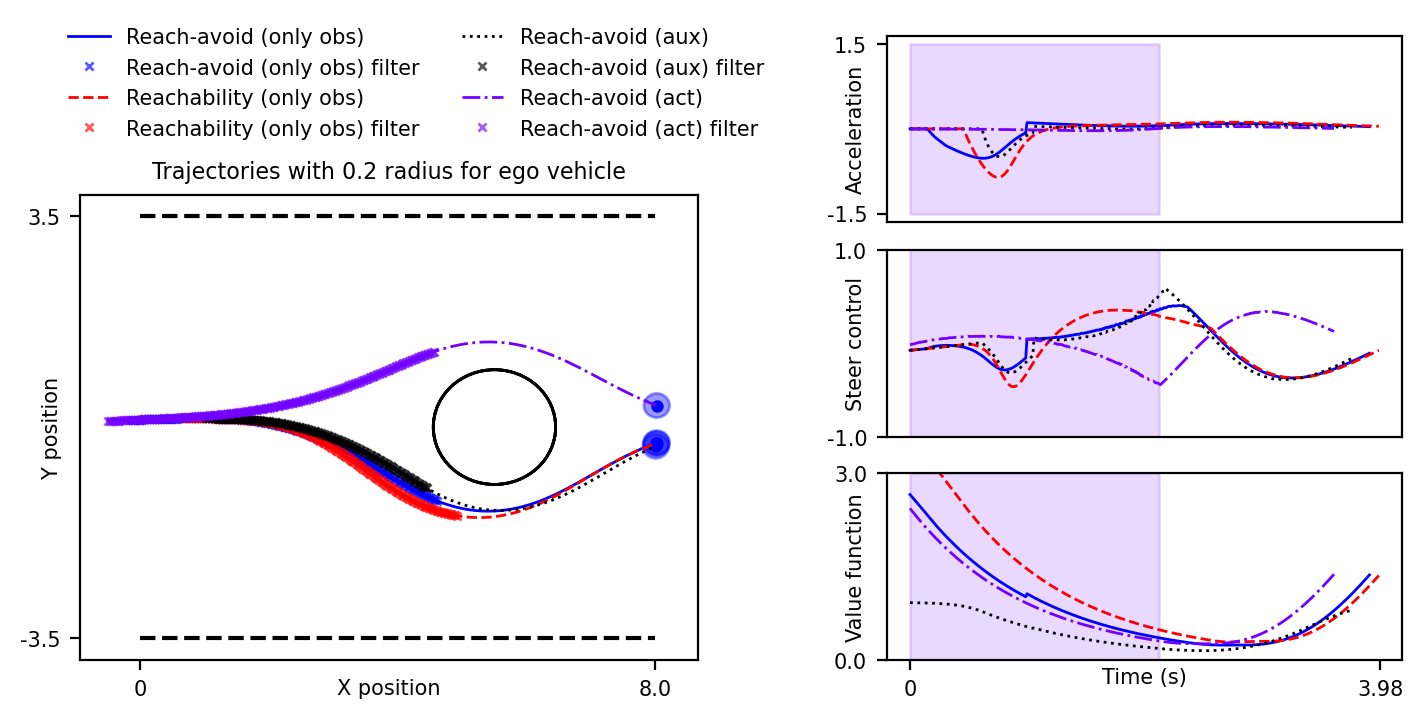
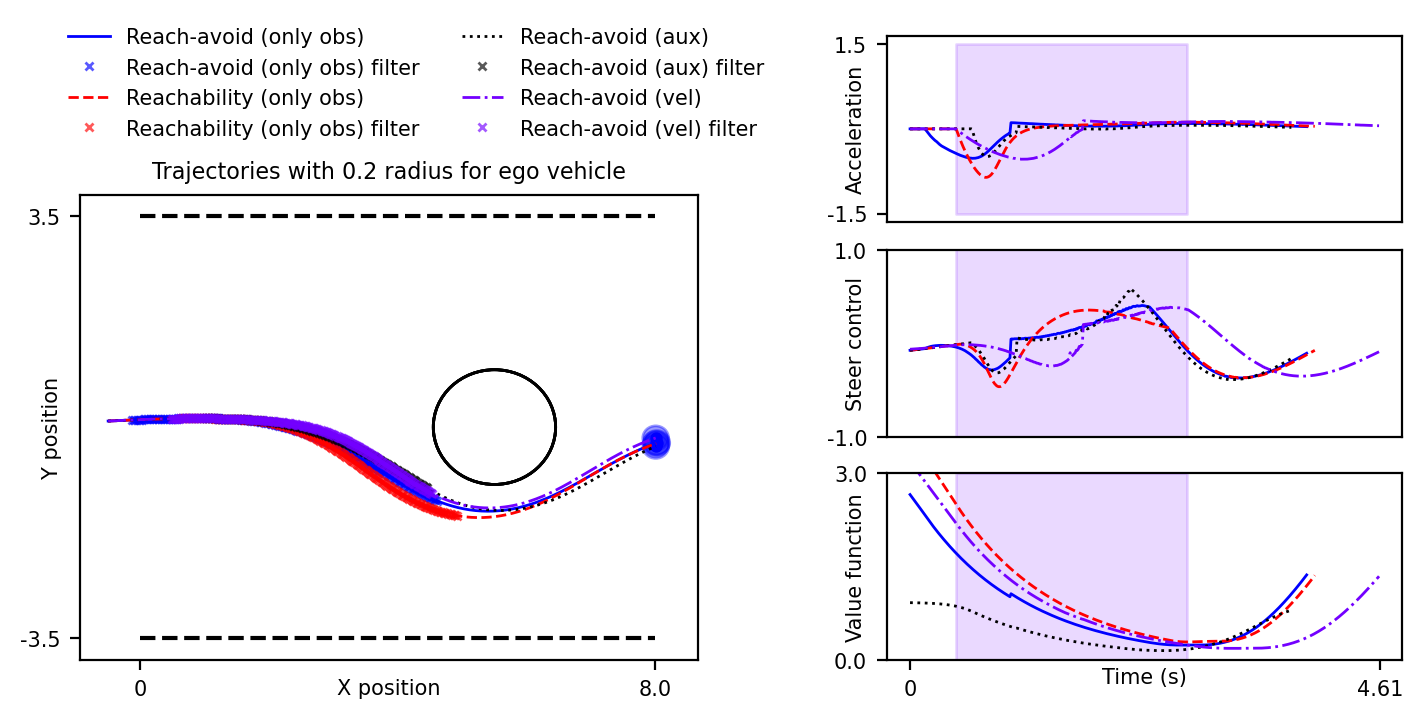
plot with reduced velocity

diff --git a/plot_reachability_vs_reachavoid_with_single_obstacle.py b/plot_reachability_vs_reachavoid_with_single_obstacle.py
@@ -19,7 +19,7 @@ jax.config.update('jax_platform_name', 'cpu')
 
 fig = plt.figure(layout='constrained', figsize=(7.0, 3.4))
 colorlist = [(0.0, 0, 1.0, 1), (1.0, 0.0, 0.0, 1.0), (0, 0, 0, 0.8), (0.45, 0.0, 1.0, 1.0)]
-labellist = ['Reach-avoid (only obs)', 'Reachability (only obs)', 'Reach-avoid (aux)', 'Reach-avoid (act)']
+labellist = ['Reach-avoid (only obs)', 'Reachability (only obs)', 'Reach-avoid (aux)', 'Reach-avoid (vel)']
 stylelist = ['solid', 'dashed', 'dotted', 'dashdot']
 legend_fontsize = 7.5
 
@@ -110,7 +110,7 @@ plot_softcbf_data_reachavoid_constraints = np.load(os.path.join(out_folder, f"ro
 plot_softcbf_data_reachavoid_constraints = plot_softcbf_data_reachavoid_constraints.ravel()[0]
 
 ########## Reach-avoid with reduced actuation ############
-config_file = './test_configs/reachavoid/test_config_cbf_reachavoid_single_obstacle_bic5D_singular_reduced_actuation.yaml'
+config_file = './test_configs/reachavoid/test_config_cbf_reachavoid_single_obstacle_bic5D_singular_reduced_velocity.yaml'
 
 # Load the config to get key parameters needed for plot generation.
 config = load_config(config_file)
